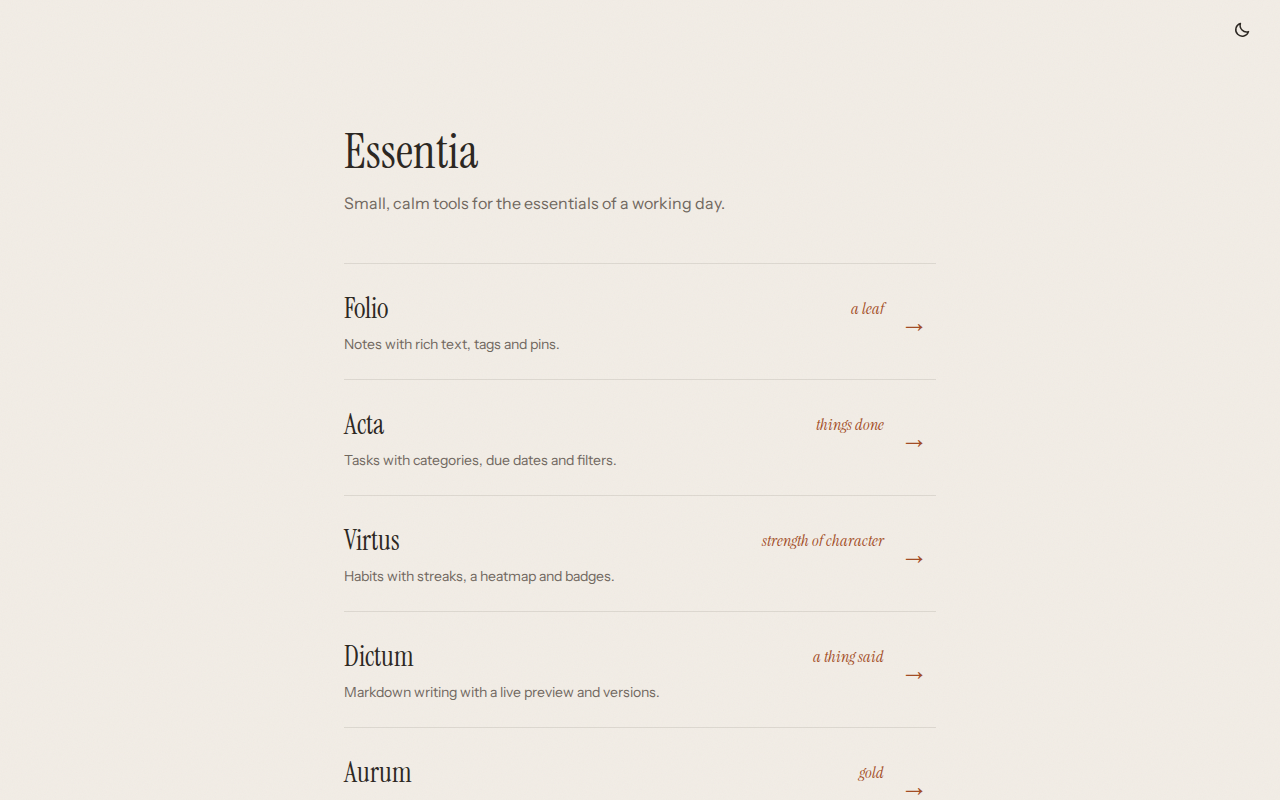
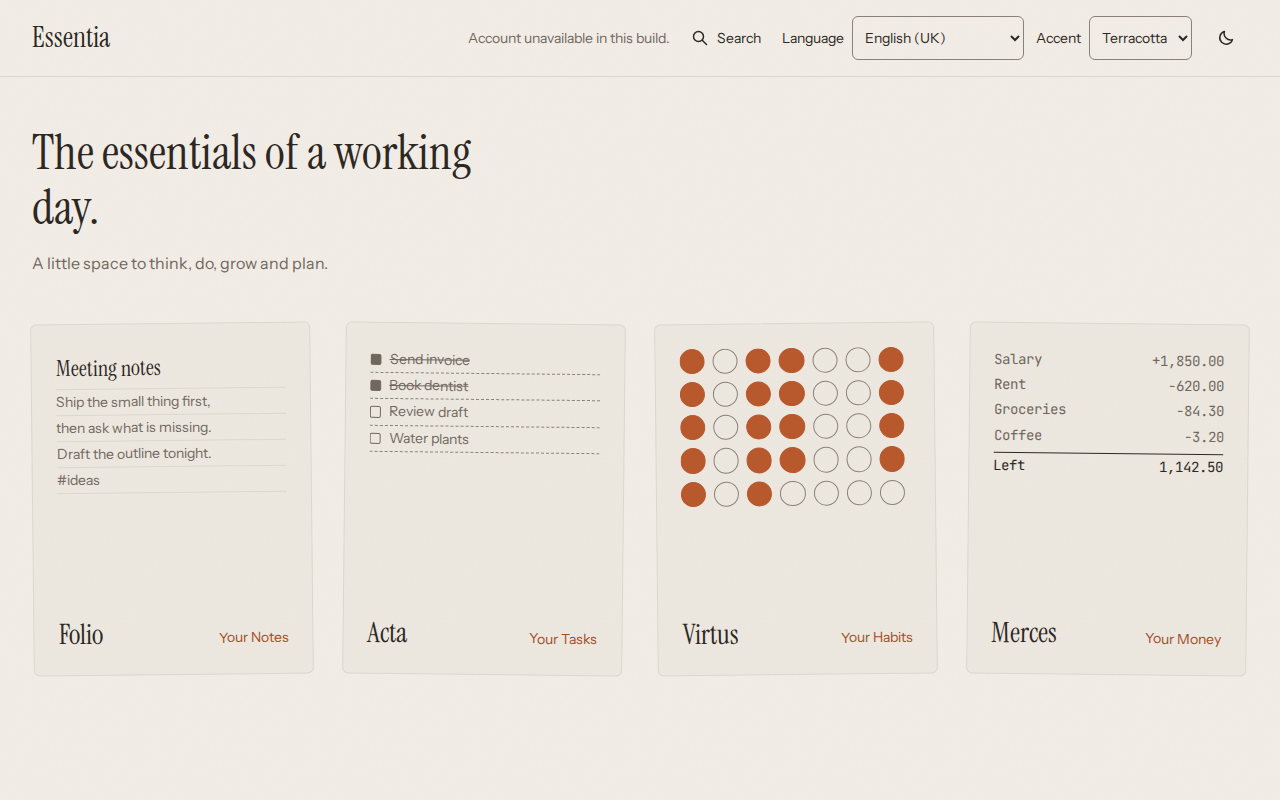
docs: describe the hub's app cards

diff --git a/docs/UX_FLOWS.md b/docs/UX_FLOWS.md
@@ -33,7 +33,7 @@ four-app destination is specified separately below; it is not yet delivered.
 ## Current screen inventory
 | Screen / route | User goal | Primary action | Key states | Responsive notes |
 |---|---|---|---|---|
-| Hub `/` | Pick an app | Open an app | Populated; empty registry | Four primary entries in two columns from 768 px, one below |
+| Hub `/` | Pick an app | Open an app | Populated; empty registry | Four app cards: two by two below 768 px, two columns from 768 px, four from 1280 px; the whole card opens the app |
 | Acta `/acta/` | Manage tasks | Add task | Empty, list, filtered (none match), completed; signed in: sync error with retry, keep-or-add question, a task changed on another device (Keep mine / Use theirs) | 520 px column |
 | Folio `/folio/` | Write and find notes | New note | Empty library, list, editor (rich text, or markdown edited as source), search no results, empty folder, folder name refused, delete-folder confirmation, save failed, read-only with Export all when notes can't be stored | Library (folders and tags), list and editor from 1024 px, the library hideable; list + editor from 768 px (library folds into a filter bar); one pane below 768 px |
 | Virtus `/virtus/` | Track habits | Check in today; an amount habit's check opens a log dialog that adds to today's total (point or comma, up to 2 decimals) or clears it | Empty, habits, streak milestone, offline; amount mark empty, half filled below target or ticked at it, stated in its name | 520 px column |
@@ -70,8 +70,8 @@ four-app destination is specified separately below; it is not yet delivered.
 ## Revised destination journeys
 
 1. Open the hub and choose Folio · Your Notes, Acta · Your Tasks, Virtus · Your
-   Habits or Merces · Your Money. Use a two-by-two grid on wide screens and a
-   single column on mobile; keep each entry’s open action clear.
+   Habits or Merces · Your Money. Each is a card with a small sample of the app;
+   clicking or tapping anywhere on it opens the app.
 2. Open the primary working view: unified Folio writing with an explicit mode
    control, tasks, habit check-ins or finance. Current account/local-use boundaries
    continue until separately reviewed sync work is delivered.
@@ -87,7 +87,7 @@ four-app destination is specified separately below; it is not yet delivered.
 
 | Surface | Agreed direction | Remaining decision |
 | --- | --- | --- |
-| Hub | Four destination entries; icons, catchphrases and open actions; account/appearance/search in header | Account, accent select, theme toggle and search implemented. Dictum left the hub and `/dictum/` points to Folio; custom app creation excluded |
+| Hub | Four app cards with a sample, name and catchphrase, each opening its app; account/appearance/search in header | Account, accent select, theme toggle and search implemented. Dictum left the hub and `/dictum/` points to Folio; custom app creation excluded |
 | Folio | Dictum writing/preview patterns; collapsible library aside with single-level folders above the tag filter; explicit rich-text/markdown control | Syncing folders and notes to the account |
 | Acta, Virtus, Merces | Use wide desktop space with comfortable reading regions, 24–32 px outer gutters and meaningful list/detail or summary areas; collapse on mobile | Exact density, pane arrangement and breakpoints require rendered review |
 | Virtus habit settings and list filters | The add options and edit dialog label recurrence "Repeats" (Every day / On chosen days) and check-ins "Log as" (Done or not / An amount); search, sort and category chips sit behind a "Search and filter" button above Today | Starts closed and stays as left across views; closing keeps values and the list filtered; while closed the button states how many filters are active (search text and category, not sort); Escape closes it back to the button |

diff --git a/docs/DESIGN_DIRECTION.md b/docs/DESIGN_DIRECTION.md
@@ -57,7 +57,7 @@ A faint paper grain over every app (`body::before`, SVG noise at `--grain-opacit
 
 ## Rules
 - **Do:** use serif titles, readable sentence-case controls and restrained technical metadata to create hierarchy; separate with hairlines and whitespace; keep one primary action per view using the selected suite accent; use `--color-accent-text` for accent-coloured text; share the theme toggle and back-to-hub link.
-- **Avoid:** per-app colour schemes or new hex values in app CSS; drop shadows on cards; text below 11 px; muted text in `--color-faint`; `--color-faint` as an input border; Playfair Display; component-library default looks.
+- **Avoid:** per-app colour schemes or new hex values in app CSS; cards and drop shadows on cards outside the hub; text below 11 px; muted text in `--color-faint`; `--color-faint` as an input border; Playfair Display; component-library default looks.
 
 ## Components and patterns
 | Component | Purpose | Rules and states |
@@ -90,9 +90,12 @@ A faint paper grain over every app (`body::before`, SVG noise at `--grain-opacit
   regions. Within sufficiently wide workspaces, arrange habit statistics and
   finance planning/insights in two columns. Signed-out finance retains a readable
   form width. Finance naming and routes remain part of separate compatibility work.
-- Hub: two-by-two destination grid on wide screens, one column on mobile. Show
-  icon, name, catchphrase and one open action per entry; keep shared account,
-  appearance and search controls in the header.
+- Hub: app cards on the desk, two by two on phones, two columns from 768 px and
+  four from 1280 px. Each card shows a small sample of its app, its name and
+  catchphrase, and the whole card opens the app through one link named after it.
+  Cards sit flat and slightly tilted; on hover or focus they straighten and lift
+  with `--shadow-overlay`. Keep shared account, appearance and search controls in
+  the header.
 - Folio: Dictum-inspired writing/preview workspace and collapsible library aside;
   rich-text/markdown mode control. The aside holds search, All notes, Unfiled and
   single-level folders with counts, then the tag filter; from 1024 px a list-header

diff --git a/docs/PROJECT_BRIEF.md b/docs/PROJECT_BRIEF.md
@@ -50,8 +50,9 @@ Visiting the deployed hub lets you use the four apps on one design system (Dictu
 | Virtus | Your Habits | Habit tracking |
 | Merces | Your Money | Renamed Aurum finance app |
 
-The target hub uses four entries in a two-by-two desktop grid and one mobile
-column. Each entry has its icon, name, catchphrase and one clear open action.
+The hub shows four app cards: two by two on phones, two columns from 768 px and
+four from 1280 px. Each card has a small sample of its app, its name and
+catchphrase, and the whole card opens the app.
 Shared account, appearance and search controls belong in the header. Existing
 Dictum left the hub once unified Folio synced and shared notes; `/dictum/` points to Folio.
 
